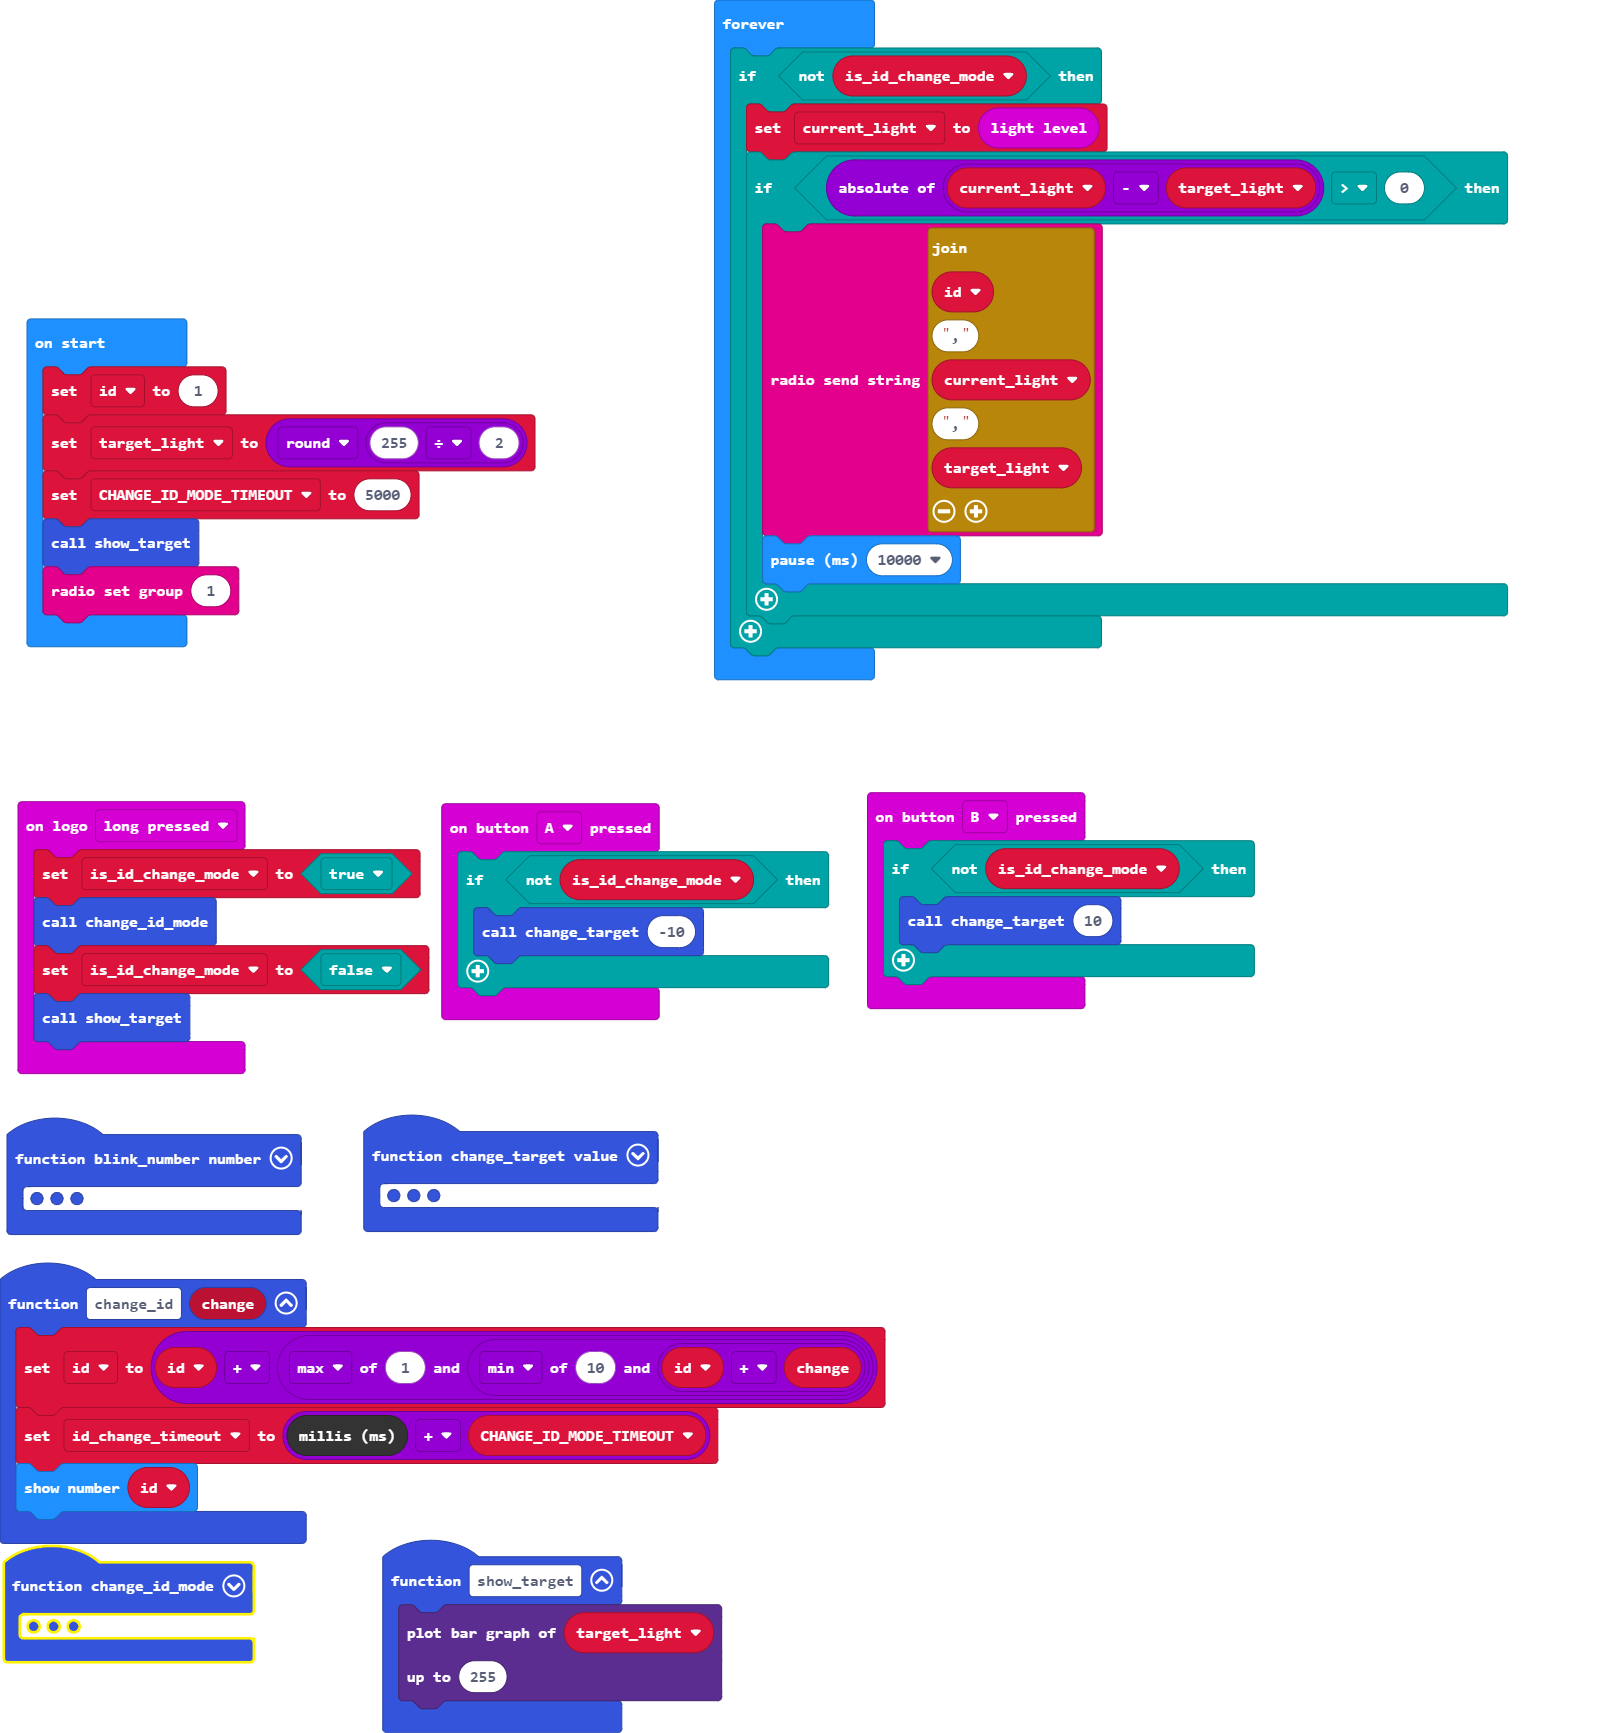
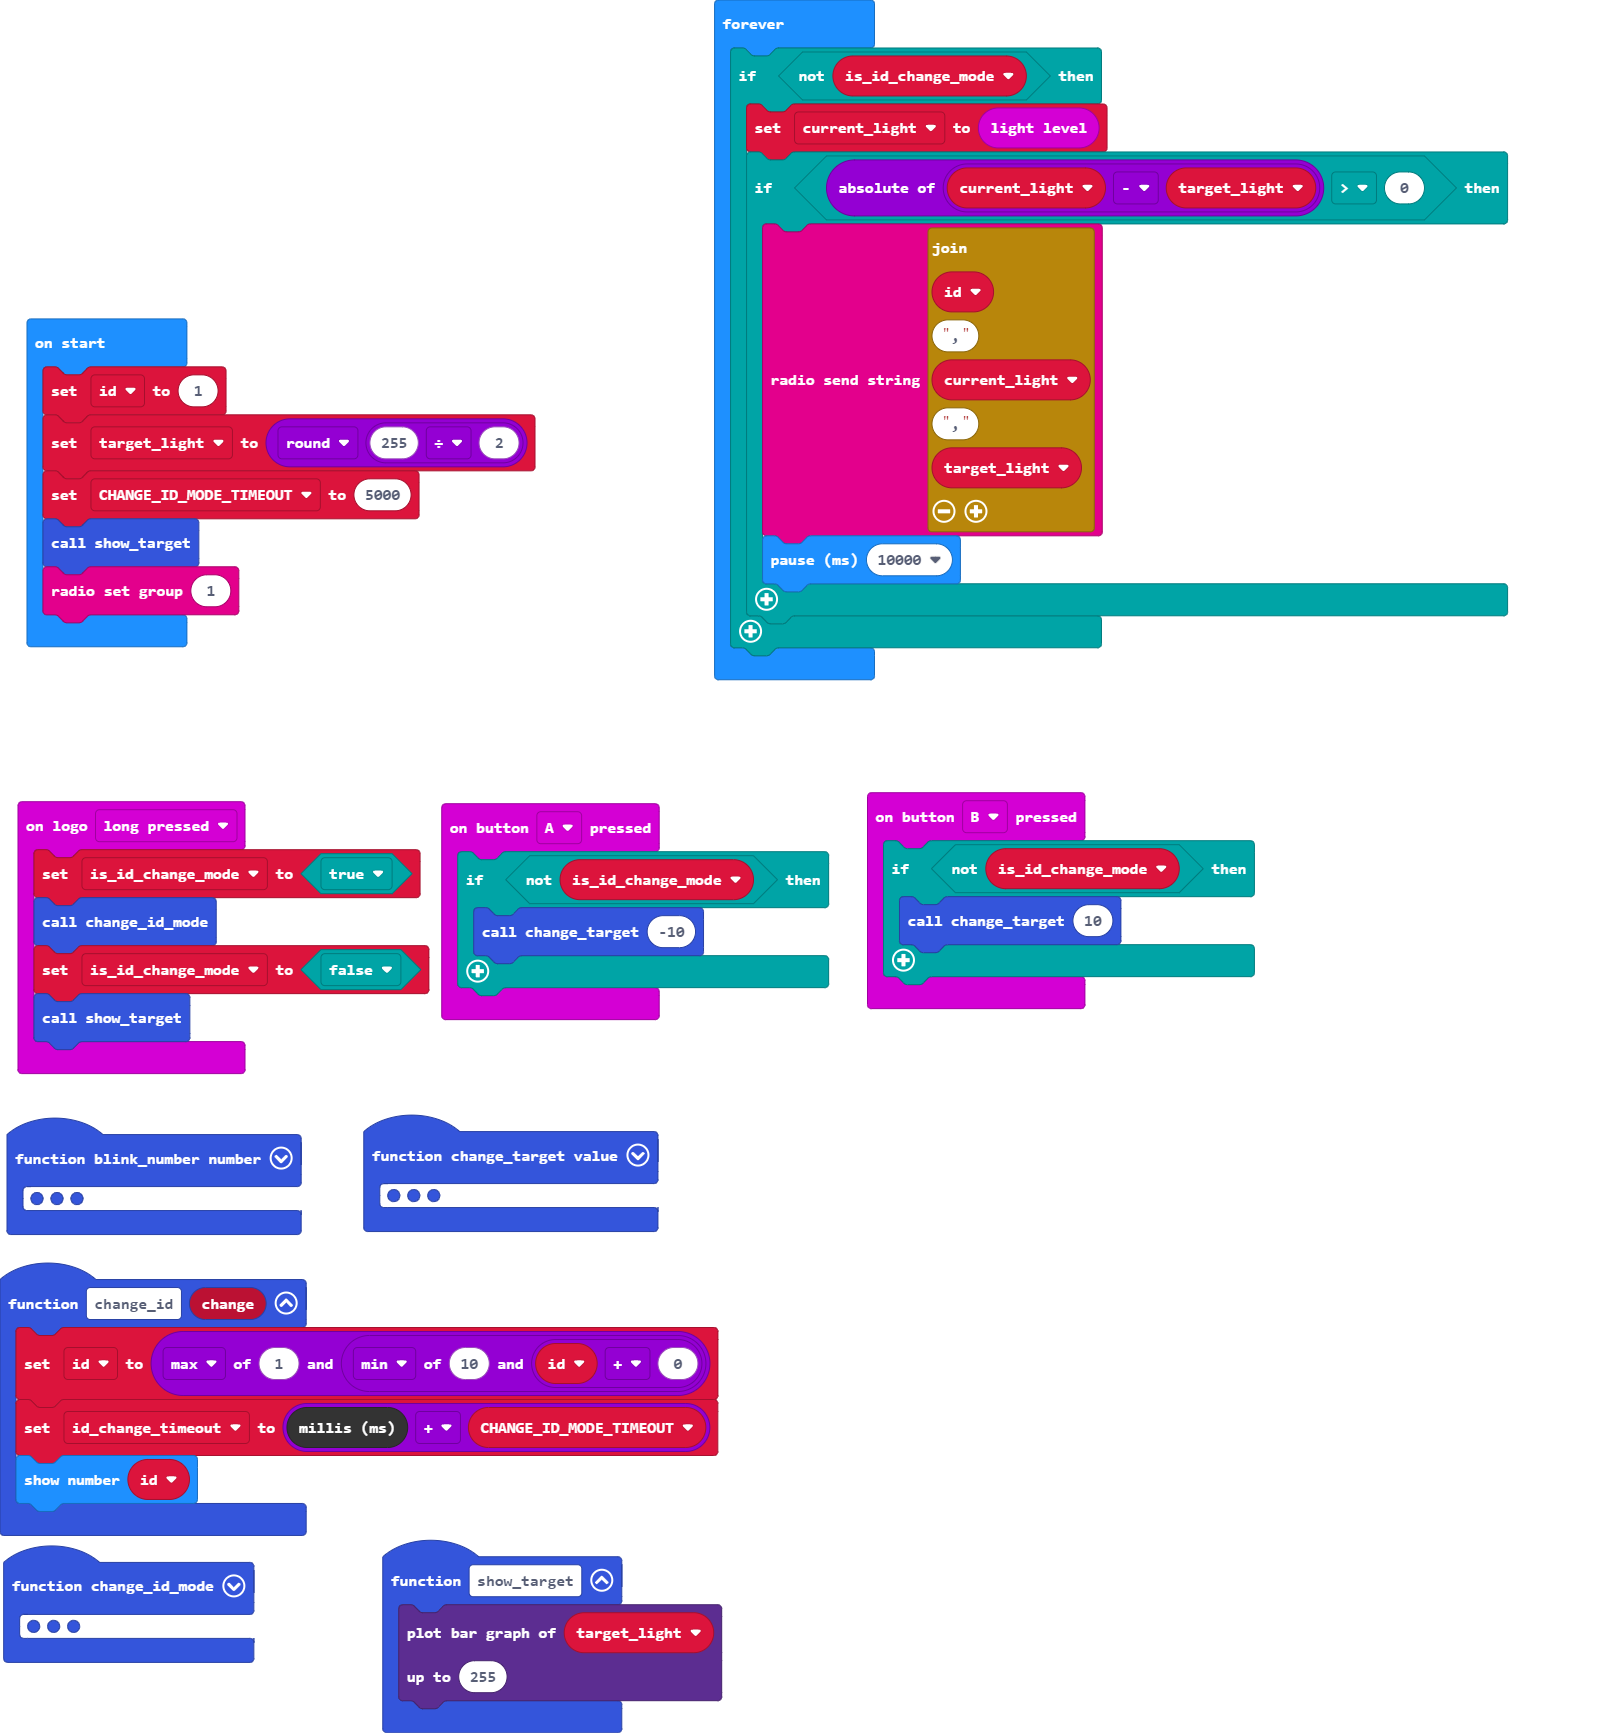
Update main.blocks, main.ts

Changed region(s): [[0.0, 0.7478, 0.5583, 0.966]]

diff --git a/main.ts b/main.ts
@@ -28,7 +28,7 @@ input.onButtonPressed(Button.B, function () {
     }
 })
 function change_id (change: number) {
-    id = id + Math.max(1, Math.min(10, id + change))
+    id = Math.max(1, Math.min(10, id + 0))
     id_change_timeout = control.millis() + CHANGE_ID_MODE_TIMEOUT
     basic.showNumber(id)
 }
